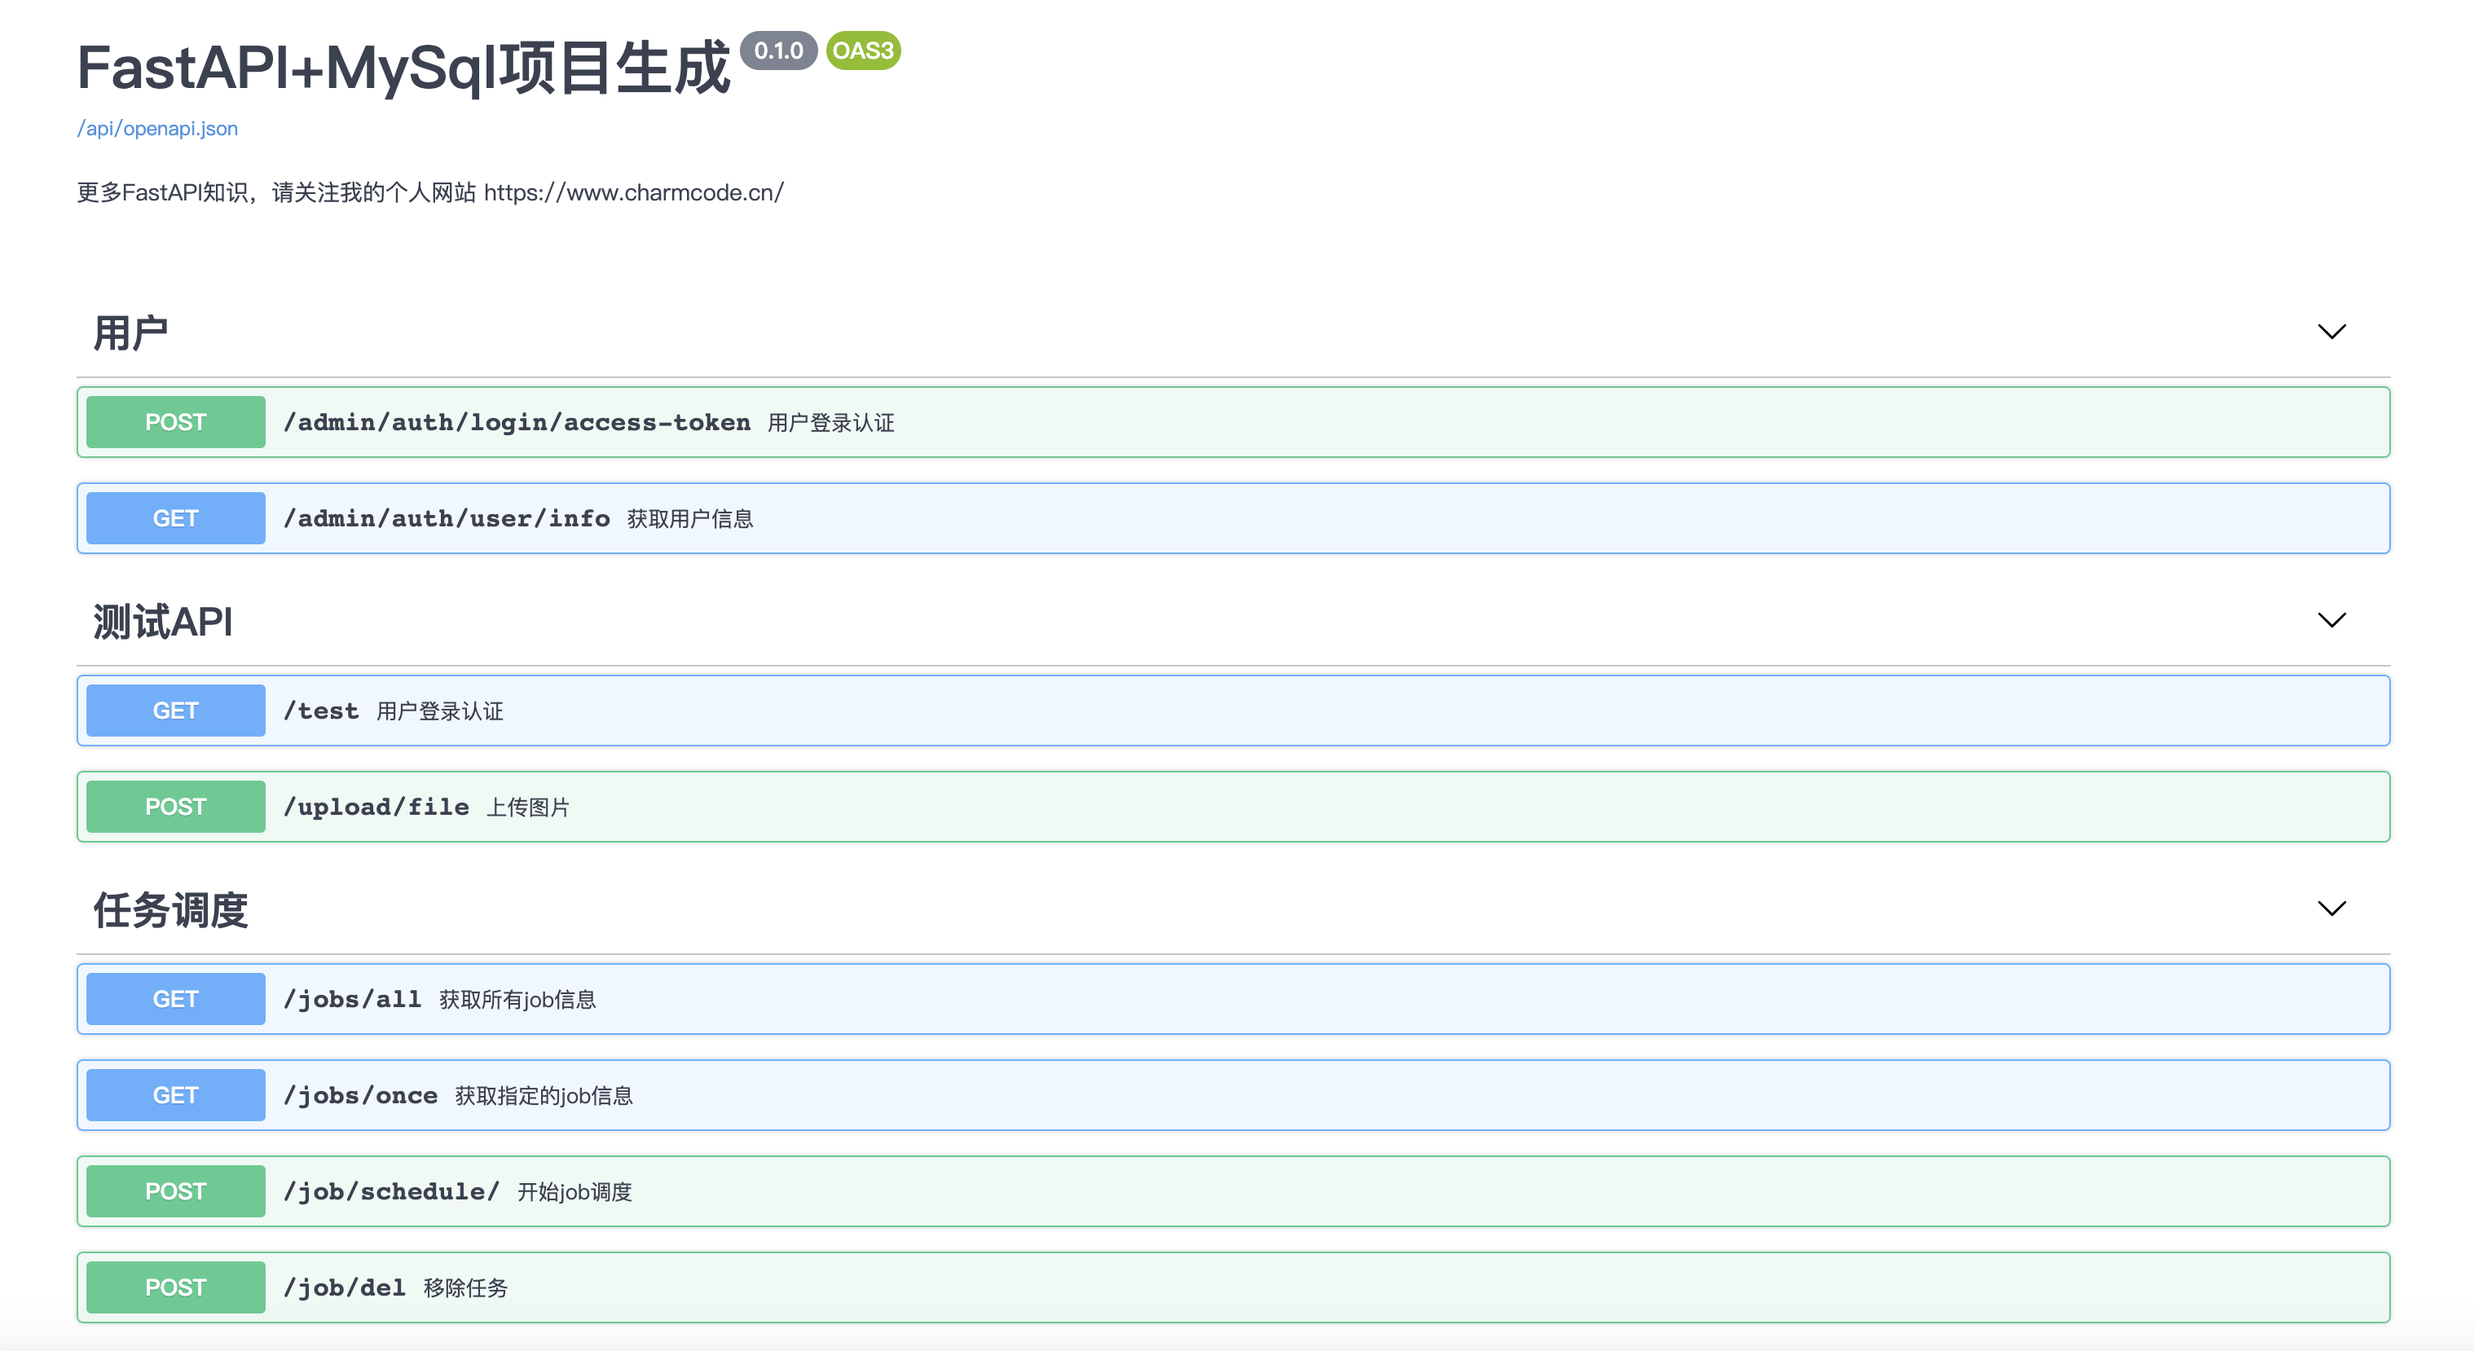
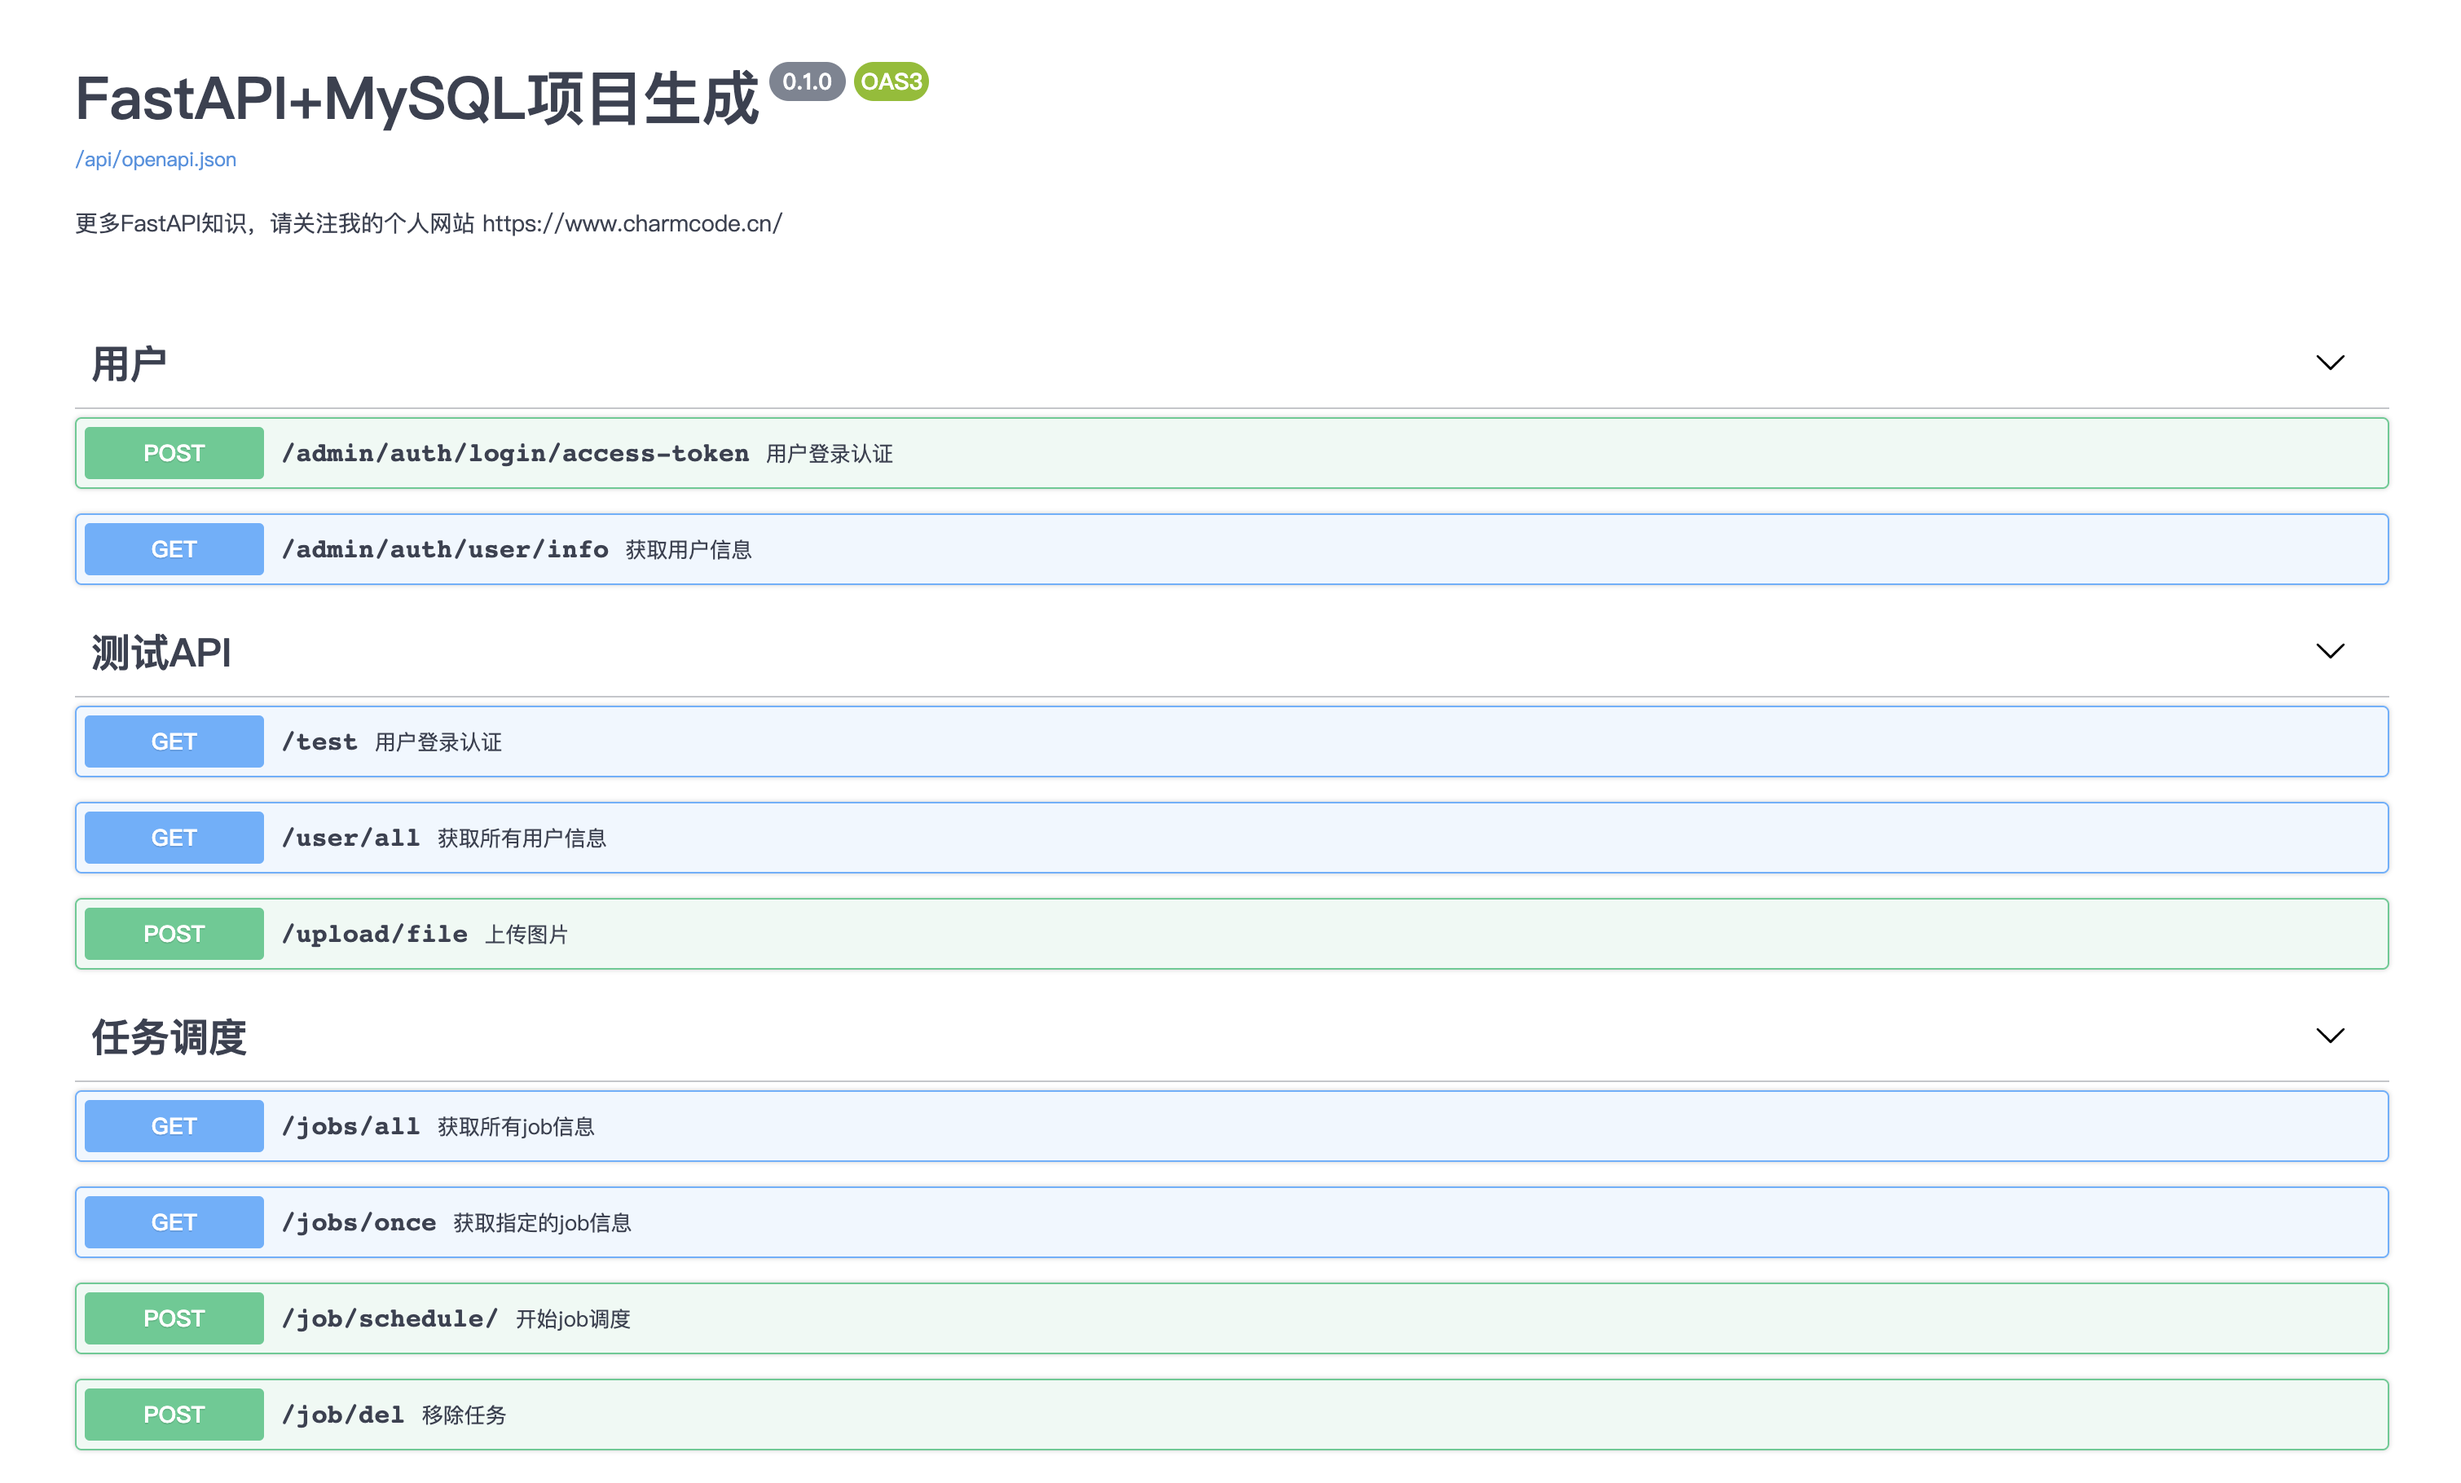
docs:说明更新

Changed region(s): [[0.0311, 0.2461, 0.9649, 0.9843], [0.0311, 0.0, 0.3735, 0.1538], [0.9338, 0.4614, 0.9649, 0.4922]]

diff --git a/README.md b/README.md
@@ -1,7 +1,7 @@
-# FastAPI and MySql - 项目生成器
+# FastAPI and MySQL - 项目生成器
 
 ![Python版本](https://img.shields.io/badge/Python-3.7+-brightgreen.svg "版本号")
-![FastAPI版本](https://img.shields.io/badge/FastAPI-0.61.1-ff69b4.svg "版本号")
+![FastAPI版本](https://img.shields.io/badge/FastAPI-0.62+-ff69b4.svg "版本号")
 
 [中文说明](./README.md) | [English](./README-en.md)
 
@@ -15,7 +15,7 @@ https://github.com/tiangolo/full-stack-fastapi-postgresql
 ![demo](images/demo1.png)
 
 
-## 特点
+## 功能
 - JWT token 认证。
 - 使用SQLAlchemy models(MySql).
 - Alembic migrations 数据迁移.
@@ -65,9 +65,9 @@ https://github.com/tiangolo/full-stack-fastapi-postgresql
 | | | |______init__.py
 | | | |____schemas               // auth模块 model
 | | | | |____user.py             // user验证
-| | | |____curd                  // curd 文件夹
+| | | |____curd                  // curd 文件夹 (CURD操作和schemas还可以单独放到一个公共的文件夹下，看个人习惯和扩展吧)
 | | | | |____user.py             // user curd操作
-| | | |____endpoints.py          // auth模块接口
+| | | |____endpoints.py          // auth模块接口 (文件名随意，最好符合业务或项目规则)
 
 | | |____item/                   // item模块
 | | | |____endpoints.py          // 模块接口
@@ -128,7 +128,11 @@ pip install cookiecutter
 cookiecutter https://github.com/CoderCharm/fastapi-mysql-generator
 
 cd your_project/
+# 安装依赖库
 pip install -r requirements.txt
+
+# 建议使用 --upgrade 安装最新版 (windows系统下uvloop当前版本可能有问题  https://github.com/MagicStack/uvloop/issues/14)
+pip install --upgrade -r requirements-dev.txt
 ```
 
 ## 配置你的数据库环境
@@ -179,7 +183,7 @@ python create_user.py
 
 ```
 # 进入项目文件夹下
-cd your_project/app
+cd your_project/
 
 # 直接运行main文件
 python main.py
